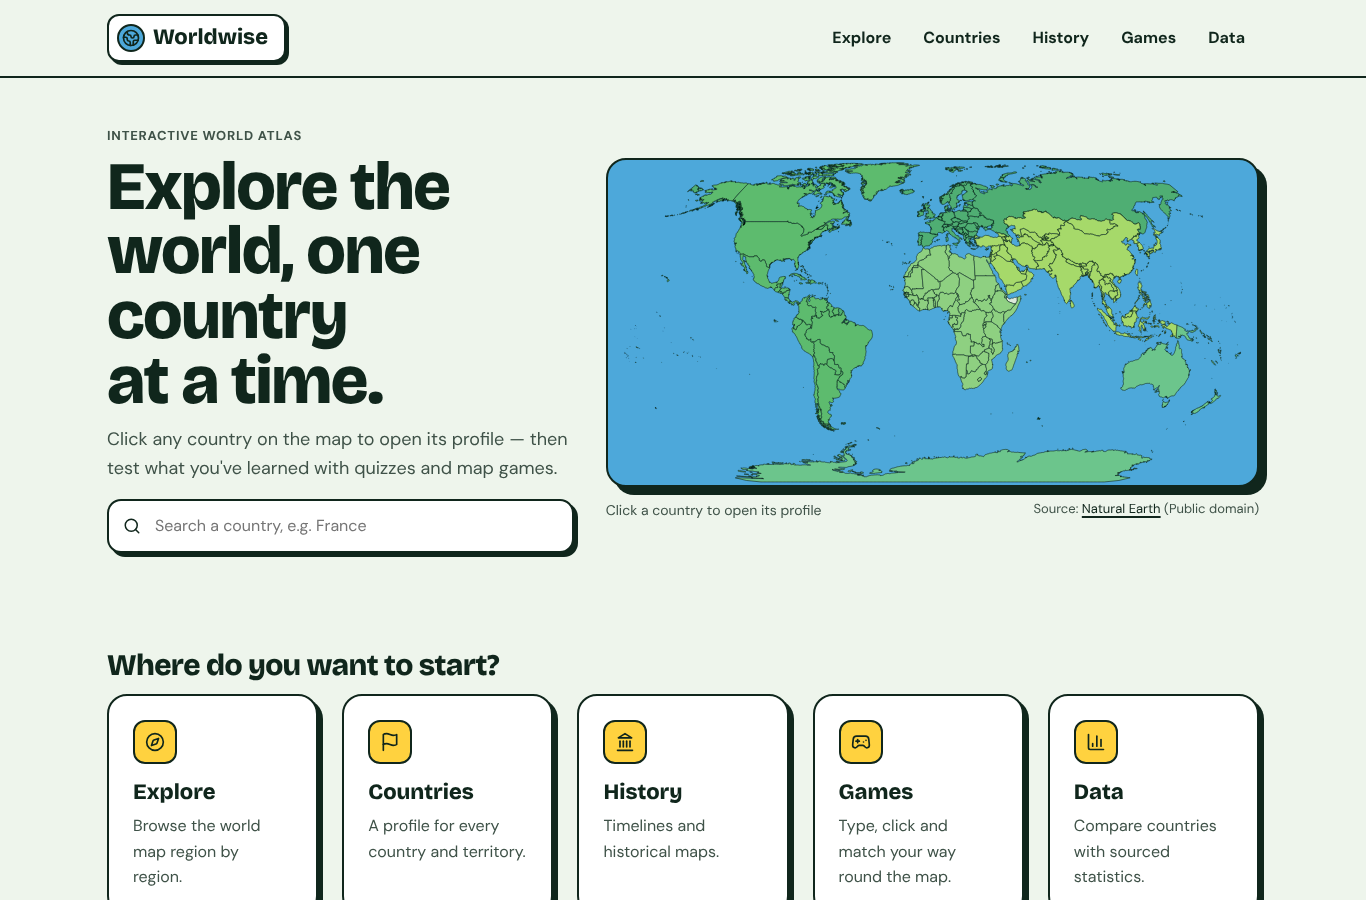
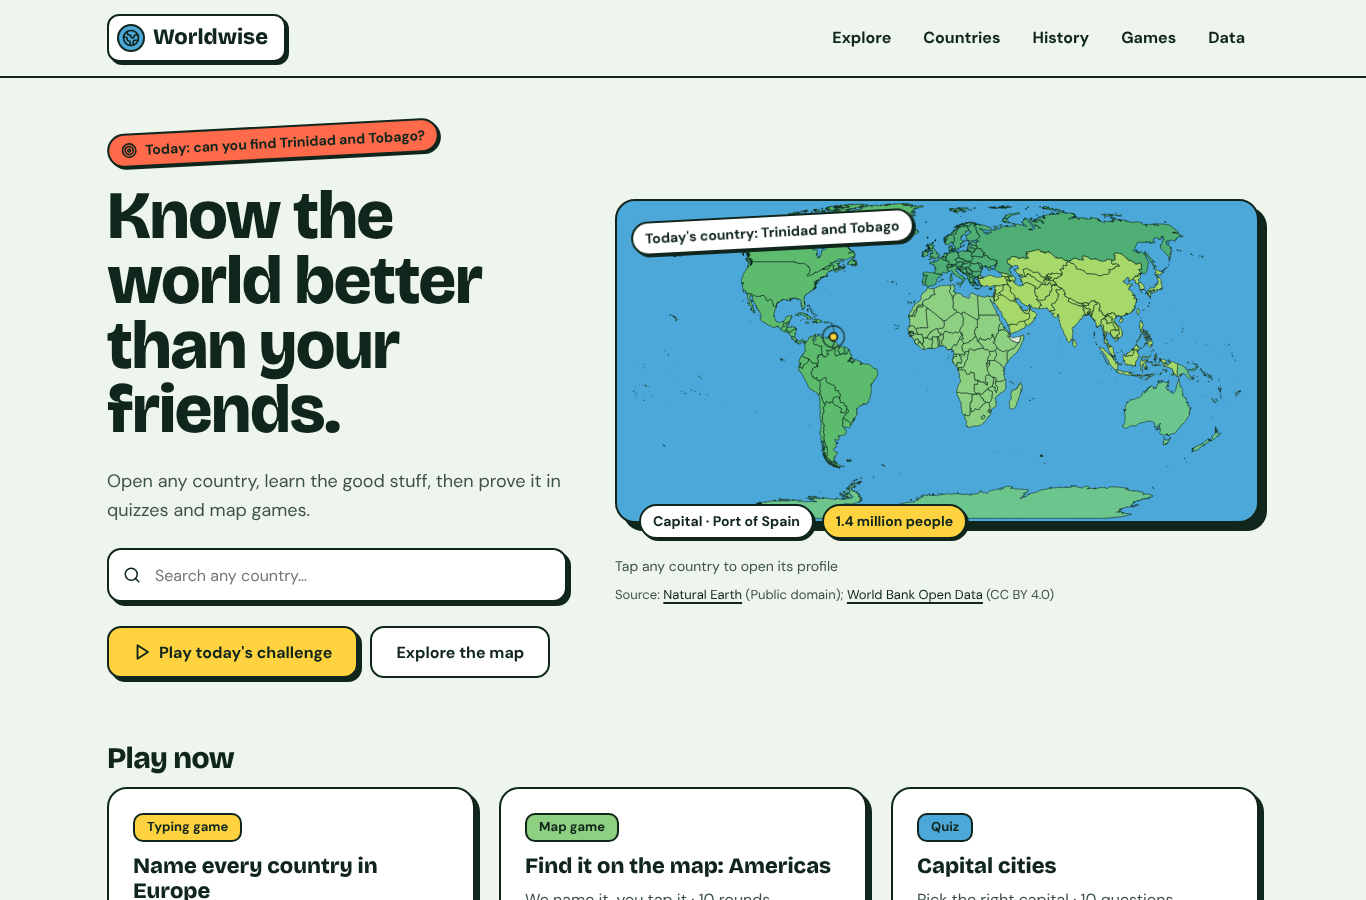
Build step 2: Atlas Green homepage
- Hero: new headline, search, today's-challenge sticker and button, world map with today's country highlighted and pinned
- Play now: typing, map and capitals games
- Section entry points (compact rows on phones)
- Connected-content thread built from today's country
- todaysCountry() shared helper; WorldMap pin option

Claude-Session: https://claude.ai/code/session_01Q3NKBv25DPe8ueoSYB2Urn

Changed region(s): [[0.0615, 0.1244, 0.9531, 1.0], [0.8917, 0.8711, 0.9224, 0.9022]]

diff --git a/src/pages/Home.tsx b/src/pages/Home.tsx
@@ -1,44 +1,100 @@
 import { Link, useNavigate } from 'react-router-dom';
-import { Compass, Flag, Landmark, Gamepad2, BarChart3, ArrowRight, Target } from 'lucide-react';
+import { Compass, Flag, Landmark, Gamepad2, BarChart3, ArrowRight, Target, Play } from 'lucide-react';
 import { WorldMap } from '../components/WorldMap';
 import { CountrySearch } from '../components/CountrySearch';
 import { ButtonLink, Card, SourceNote } from '../components/ui';
-import { SOVEREIGN, countryPath, dailyIndex, getCountry } from '../data/countries';
+import { COUNTRIES, countryPath, getCountry, todaysCountry, type Country } from '../data/countries';
+import { questionCount } from '../lib/quiz';
+import { sovereignIn } from '../lib/regions';
+import { fmtPeople } from '../lib/format';
 
 const SECTIONS = [
   { to: '/explore', icon: Compass, title: 'Explore', text: 'Browse the world map region by region.' },
   { to: '/countries', icon: Flag, title: 'Countries', text: 'A profile for every country and territory.' },
   { to: '/history', icon: Landmark, title: 'History', text: 'Timelines and historical maps.' },
-  { to: '/games', icon: Gamepad2, title: 'Games', text: 'Type, click and match your way round the map.' },
-  { to: '/data', icon: BarChart3, title: 'Data', text: 'Compare countries with sourced statistics.' },
+  { to: '/games', icon: Gamepad2, title: 'Games', text: 'Typing, map and quiz games.' },
+  { to: '/data', icon: BarChart3, title: 'Data', text: 'Compare countries with sourced numbers.' },
 ];
+
+/** A neighbour to follow from today's country: a land neighbour if it has one, otherwise a country in the same subregion. */
+function nextDoor(c: Country): Country | undefined {
+  const byName = (a: Country, b: Country) => a.name.localeCompare(b.name);
+  const neighbours = c.borders.map((b) => getCountry(b)!).filter((n) => n.sovereign).sort(byName);
+  return neighbours[0] ?? COUNTRIES.filter((x) => x.sovereign && x.subregion === c.subregion && x.cca3 !== c.cca3).sort(byName)[0];
+}
 
 export function Home() {
   const navigate = useNavigate();
-  const today = SOVEREIGN.filter((c) => c.hasShape)[dailyIndex(SOVEREIGN.filter((c) => c.hasShape).length)];
-  const france = getCountry('FRA')!;
+  const today = todaysCountry();
+  const region = today.region.toLowerCase();
+  const neighbour = nextDoor(today);
+  const regionCount = sovereignIn(region as Parameters<typeof sovereignIn>[0]).length;
+  const geoQuestions = questionCount(today, 'geography');
+  const europe = sovereignIn('europe').length;
 
   return (
     <>
-      <section className="dark hero">
-        <div className="container hero-grid">
+      <section className="hero container" aria-labelledby="hero-h">
+        <div className="hero-grid">
           <div className="hero-copy">
-            <p className="eyebrow">Interactive world atlas</p>
-            <h1>Explore the world, one country at a time.</h1>
-            <p className="hero-lede">Click any country on the map to open its profile — then test what you've learned with quizzes and map games.</p>
-            <CountrySearch />
+            <Link to={`/games/find-on-map?region=${region}&start=${today.cca3}`} className="sticker sticker-coral hero-sticker">
+              <Target size={16} strokeWidth={2.5} aria-hidden="true" /> Today: can you find {today.name}?
+            </Link>
+            <h1 id="hero-h">Know the world better than your friends.</h1>
+            <p className="hero-lede">Open any country, learn the good stuff, then prove it in quizzes and map games.</p>
+            <CountrySearch placeholder="Search any country…" />
+            <div className="hero-actions">
+              <ButtonLink to={`/games/find-on-map?region=${region}&start=${today.cca3}`} variant="primary">
+                <Play size={18} strokeWidth={2.5} aria-hidden="true" /> Play today's challenge
+              </ButtonLink>
+              <ButtonLink to="/explore">Explore the map</ButtonLink>
+            </div>
           </div>
+
           <div className="hero-map">
-            <WorldMap label="World map. Select a country to open its profile, or use the search box." onSelect={(code) => navigate(`/countries/${code.toLowerCase()}`)} />
+            <div className="hero-map-stage">
+            <WorldMap
+              label={`World map with today's country, ${today.name}, highlighted. Select any country to open its profile, or use the search box.`}
+              onSelect={(code) => navigate(`/countries/${code.toLowerCase()}`)}
+              classFor={(code) => (code === today.cca3 ? 'active' : undefined)}
+              pin={today.cca3}
+            />
+            <Link to={countryPath(today)} className="sticker hero-map-label">Today's country: {today.name}</Link>
+            <div className="hero-map-facts">
+              {today.capital[0] && <span className="sticker sticker-flat">Capital · {today.capital[0]}</span>}
+              {today.population && <span className="sticker sticker-flat sticker-sun">{fmtPeople(today.population.value)} people</span>}
+            </div>
+            </div>
             <div className="map-caption">
-              <span className="muted" style={{ fontSize: 'var(--text-sm)' }}>Click a country to open its profile</span>
-              <SourceNote sources={['natural-earth']} />
+              <span className="muted">Tap any country to open its profile</span>
+              <SourceNote sources={today.population ? ['natural-earth', today.population.source] : ['natural-earth']} />
             </div>
           </div>
         </div>
       </section>
 
-      <section className="section container" aria-labelledby="sections-h">
+      <section className="container section home-games" aria-labelledby="games-h">
+        <h2 id="games-h">Play now</h2>
+        <div className="grid grid-3">
+          <Link to="/games/name-the-countries?region=europe" className="card card-link game-tile">
+            <span className="tag tag-sun">Typing game</span>
+            <span className="card-title">Name every country in Europe</span>
+            <span className="muted">{europe} countries · 5 minutes on the clock</span>
+          </Link>
+          <Link to={`/games/find-on-map?region=${region}`} className="card card-link game-tile">
+            <span className="tag tag-green">Map game</span>
+            <span className="card-title">Find it on the map: {today.region}</span>
+            <span className="muted">We name it, you tap it · 10 rounds</span>
+          </Link>
+          <Link to="/games/capitals" className="card card-link game-tile">
+            <span className="tag tag-ocean">Quiz</span>
+            <span className="card-title">Capital cities</span>
+            <span className="muted">Pick the right capital · 10 questions</span>
+          </Link>
+        </div>
+      </section>
+
+      <section className="container section home-sections" aria-labelledby="sections-h">
         <h2 id="sections-h">Where do you want to start?</h2>
         <div className="grid grid-5">
           {SECTIONS.map((s) => (
@@ -47,32 +103,33 @@ export function Home() {
         </div>
       </section>
 
-      <section className="section container challenge-wrap" aria-labelledby="challenge-h">
-        <div className="challenge dark">
-          <div>
-            <p className="eyebrow"><Target size={14} aria-hidden="true" style={{ verticalAlign: '-2px' }} /> Today's challenge</p>
-            <h2 id="challenge-h">Can you find {today.name} on the map?</h2>
-            <p className="muted">Then try to place every other country in {today.region}. A new country every day.</p>
-            <div className="quiz-actions">
-              <ButtonLink to={`/games/find-on-map?region=${today.region.toLowerCase()}&start=${today.cca3}`} variant="primary">Play today's challenge</ButtonLink>
-              <ButtonLink to={countryPath(today)}>Read about {today.name}</ButtonLink>
-            </div>
-          </div>
-          <div className="challenge-map">
-            <WorldMap label={`Map of ${today.region}`} focus={SOVEREIGN.filter((c) => c.region === today.region).map((c) => c.cca3)} hideNames />
-          </div>
-        </div>
-      </section>
-
-      <section className="section container" aria-labelledby="featured-h">
+      <section className="container section" aria-labelledby="thread-h">
         <p className="eyebrow">Connected content</p>
-        <h2 id="featured-h">Follow a thread: {france.name}</h2>
-        <p className="muted prose">Every page leads somewhere else. Here's one path through the atlas.</p>
+        <h2 id="thread-h">Follow the thread from {today.name}</h2>
+        <p className="muted prose">Every page leads somewhere else. Here's one path through the atlas, starting with today's country.</p>
         <ol className="thread">
-          <li><Card to={countryPath(france)} eyebrow="Country profile" title={france.name}><p className="muted">Capital {france.capital[0]}, {france.borders.length} land neighbours.</p></Card></li>
-          <li><Card to="/countries/fra/quiz/history" eyebrow="Quiz" title="French history"><p className="muted">From the Bastille to D-Day.</p></Card></li>
-          <li><Card to="/countries/deu" eyebrow="Neighbour" title="Germany"><p className="muted">Shares a border with France.</p></Card></li>
-          <li><Card to="/games/name-the-countries?region=europe" eyebrow="Game" title="Name every country in Europe"><p className="muted">Type them all against the clock.</p></Card></li>
+          <li>
+            <Card to={countryPath(today)} eyebrow="1 · Country profile" title={today.name}>
+              <p className="muted">{today.capital[0] ? `Capital ${today.capital[0]}` : today.subregion ?? today.region}{today.borders.length ? ` · ${today.borders.length} land neighbour${today.borders.length > 1 ? 's' : ''}` : ''}</p>
+            </Card>
+          </li>
+          {neighbour && (
+            <li>
+              <Card to={countryPath(neighbour)} eyebrow={today.borders.includes(neighbour.cca3) ? '2 · Next door' : '2 · Same region'} title={neighbour.name}>
+                <p className="muted">{today.borders.includes(neighbour.cca3) ? `Shares a border with ${today.name}.` : `Also in ${today.subregion}.`}</p>
+              </Card>
+            </li>
+          )}
+          <li>
+            <Card to={`${countryPath(today)}/quiz/geography`} eyebrow="3 · Quiz" title={`${today.name}: geography`}>
+              <p className="muted">{geoQuestions} questions, built from real data.</p>
+            </Card>
+          </li>
+          <li>
+            <Card to={`/games/name-the-countries?region=${region}`} eyebrow="4 · Game" title={`Name every country in ${today.region}`}>
+              <p className="muted">{regionCount} countries against the clock.</p>
+            </Card>
+          </li>
         </ol>
         <p><Link className="text-link" to="/countries">Browse all countries <ArrowRight size={16} aria-hidden="true" /></Link></p>
       </section>

diff --git a/src/styles/pages.css b/src/styles/pages.css
@@ -2,16 +2,36 @@
    these layouts get reworked screen by screen in build steps 2-4. */
 
 /* ---------- Home ---------- */
-.hero { padding-top: var(--space-12); padding-bottom: var(--space-12); }
-.hero-grid { display: grid; gap: var(--space-8); align-items: center; }
-@media (min-width: 1025px) { .hero-grid { grid-template-columns: 5fr 7fr; } }
-.hero h1 { font-size: var(--text-3xl); line-height: 0.95; }
-.hero-lede { font-size: var(--text-lg); color: var(--ink-muted); max-width: 46ch; }
+.hero { padding-top: var(--space-12); padding-bottom: var(--space-8); }
+.hero-grid { display: grid; gap: var(--space-12); align-items: center; }
+@media (min-width: 1025px) { .hero-grid { grid-template-columns: 5fr 7fr; gap: var(--space-12); } }
+.hero-copy { display: flex; flex-direction: column; align-items: flex-start; gap: var(--space-6); min-width: 0; }
+.hero-copy h1 { font-size: var(--text-3xl); line-height: 0.95; margin: 0; }
+.hero-lede { font-size: var(--text-lg); color: var(--ink-muted); max-width: 44ch; margin: 0; }
+.hero-actions { display: flex; flex-wrap: wrap; gap: var(--space-3); }
+.hero-map { min-width: 0; }
+.hero-map-stage { position: relative; padding-bottom: var(--space-4); }
+.hero-map-label { position: absolute; top: var(--space-4); left: var(--space-4); }
+.hero-map-facts { position: absolute; left: var(--space-6); bottom: 0; display: flex; flex-wrap: wrap; gap: var(--space-2); }
+.hero-map .map-caption { margin-top: var(--space-4); font-size: var(--text-sm); }
 .hero-map .source-note { margin: 0; }
-.challenge { background: var(--surface); border: var(--outline); border-radius: var(--radius-card); box-shadow: var(--shadow-card); padding: var(--space-8); display: grid; gap: var(--space-6); align-items: center; }
-@media (min-width: 1025px) { .challenge { grid-template-columns: 1fr 1fr; } }
-.challenge-map .map-frame { box-shadow: var(--shadow-md); }
-.challenge-wrap { padding-top: 0; }
+@media (max-width: 639px) {
+  .hero { padding-top: var(--space-8); }
+  .hero-grid { gap: var(--space-8); }
+  .hero-map-label { top: var(--space-2); left: var(--space-2); font-size: var(--text-xs); }
+  .hero-map-facts { left: var(--space-3); }
+  .hero-map-facts .sticker { font-size: var(--text-xs); }
+  .hero-actions .btn { flex: 1 1 auto; }
+}
+.home-games { padding-top: var(--space-8); }
+@media (max-width: 639px) {
+  .home-sections .card { display: grid; grid-template-columns: 44px 1fr; align-items: center; column-gap: var(--space-3); padding: var(--space-3) var(--space-4); }
+  .home-sections .card-icon { grid-row: span 2; margin: 0; }
+  .home-sections .card-title { margin: 0; }
+  .home-sections .card p { font-size: var(--text-sm); }
+}
+.game-tile { display: flex; flex-direction: column; align-items: flex-start; gap: var(--space-2); }
+.game-tile .card-title { margin: var(--space-1) 0 0; }
 .thread { list-style: none; padding: 0; margin: var(--space-6) 0; display: grid; gap: var(--space-6); }
 @media (min-width: 640px) { .thread { grid-template-columns: repeat(2, 1fr); } }
 @media (min-width: 1025px) { .thread { grid-template-columns: repeat(4, 1fr); } }

diff --git a/src/components/WorldMap.tsx b/src/components/WorldMap.tsx
@@ -30,17 +30,19 @@ export interface WorldMapProps {
   hideNames?: boolean;
   /** Draw only the focused countries' region (e.g. Europe without North Africa). */
   onlyFocusRegion?: boolean;
+  /** Drop a pin on this country (cca3), so small countries are visible on a world map. */
+  pin?: string;
   aspect?: number;
 }
 
-function WorldMapInner({ label, onSelect, classFor, focus, hideNames, onlyFocusRegion, aspect = 0.5 }: WorldMapProps) {
+function WorldMapInner({ label, onSelect, classFor, focus, hideNames, onlyFocusRegion, pin, aspect = 0.5 }: WorldMapProps) {
   const { features, error } = useWorld();
   const frame = useRef<HTMLDivElement>(null);
   const [tip, setTip] = useState<{ x: number; y: number; text: string } | null>(null);
   const height = Math.round(WIDTH * aspect);
 
-  const paths = useMemo(() => {
-    if (!features) return [];
+  const { paths, pinAt } = useMemo(() => {
+    if (!features) return { paths: [], pinAt: null };
     const focusSet = new Set(focus ?? []);
     const regions = new Set([...focusSet].map((c) => getCountry(c)?.region));
     const visible = features.filter((f) => {
@@ -54,8 +56,10 @@ function WorldMapInner({ label, onSelect, classFor, focus, hideNames, onlyFocusR
     const pad = focusSet.size ? 24 : 4;
     const projection = geoNaturalEarth1().fitExtent([[pad, pad], [WIDTH - pad, height - pad]], fc);
     const path = geoPath(projection);
-    return visible.map((f: CountryFeature) => ({ f, d: path(f) ?? '' }));
-  }, [features, focus, height, onlyFocusRegion]);
+    const pinCountry = getCountry(pin);
+    const pinAt = pinCountry ? projection([pinCountry.latlng[1], pinCountry.latlng[0]]) : null;
+    return { paths: visible.map((f: CountryFeature) => ({ f, d: path(f) ?? '' })), pinAt };
+  }, [features, focus, height, onlyFocusRegion, pin]);
 
   if (error) return <div className="map-frame map-loading" role="alert">{error}</div>;
   if (!features) return <div className="map-frame map-loading">Loading map…</div>;
@@ -85,6 +89,12 @@ function WorldMapInner({ label, onSelect, classFor, focus, hideNames, onlyFocusR
             />
           );
         })}
+        {pinAt && (
+          <g className="map-pin" transform={`translate(${pinAt[0]} ${pinAt[1]})`} aria-hidden="true">
+            <circle r="16" className="map-pin-ring" />
+            <circle r="6" className="map-pin-dot" />
+          </g>
+        )}
       </svg>
       {tip && <div className="map-tooltip" style={{ left: tip.x, top: tip.y }} aria-hidden="true">{tip.text}</div>}
     </div>

diff --git a/src/styles/components.css b/src/styles/components.css
@@ -84,6 +84,11 @@
   border: var(--outline); border-radius: var(--radius-pill); box-shadow: 2px 2px 0 var(--ink);
   background: var(--surface); font-weight: 700; font-size: var(--text-sm); transform: rotate(-3deg);
 }
+.sticker-coral { background: var(--coral); }
+.sticker-sun { background: var(--sun); }
+.sticker-flat { transform: none; }
+a.sticker { color: var(--ink); text-decoration: none; transition: transform var(--ease), box-shadow var(--ease); }
+a.sticker:hover { color: var(--ink); box-shadow: none; transform: rotate(-3deg) translate(2px, 2px); }
 .placeholder { border: 2px dashed var(--ink-muted); border-radius: var(--radius-card); padding: var(--space-6); color: var(--ink-muted); background: transparent; }
 .placeholder h3 { color: var(--ink); display: flex; align-items: center; gap: var(--space-2); }
 .source-note { font-size: var(--text-xs); color: var(--ink-muted); margin-top: var(--space-3); }
@@ -132,6 +137,13 @@ select.input { box-shadow: none; min-height: var(--touch); }
 .map-country.active { fill: var(--map-active); }
 .map-country.found { fill: var(--map-found); }
 .map-country.wrong { fill: var(--map-wrong); }
+.map-pin { pointer-events: none; }
+.map-pin-ring { fill: none; stroke: var(--ink); stroke-width: 3; }
+.map-pin-dot { fill: var(--sun); stroke: var(--ink); stroke-width: 2.5; }
+@media (prefers-reduced-motion: no-preference) {
+  .map-pin-ring { animation: pin-pulse 1.8s ease-out infinite; transform-origin: center; transform-box: fill-box; }
+}
+@keyframes pin-pulse { 0% { transform: scale(0.6); opacity: 1; } 100% { transform: scale(1.6); opacity: 0; } }
 .map-tooltip {
   position: absolute; pointer-events: none; background: var(--surface); color: var(--ink); font-size: var(--text-sm); font-weight: 700;
   padding: var(--space-1) var(--space-3); border: var(--outline); border-radius: var(--radius-tag); box-shadow: 2px 2px 0 var(--ink);

diff --git a/src/data/countries.ts b/src/data/countries.ts
@@ -64,3 +64,12 @@ export function dailyIndex(length: number, date = new Date()) {
 }
 
 export const fmt = new Intl.NumberFormat('en-GB');
+
+/**
+ * Today's challenge country: the same for every visitor on a given (UTC) day.
+ * Drawn from countries big enough to find on the map, so the "Find it on the map" challenge works.
+ */
+export function todaysCountry(date = new Date()): Country {
+  const pool = SOVEREIGN.filter((c) => c.hasShape && (c.area?.value ?? 0) > 1000);
+  return pool[dailyIndex(pool.length, date)];
+}
